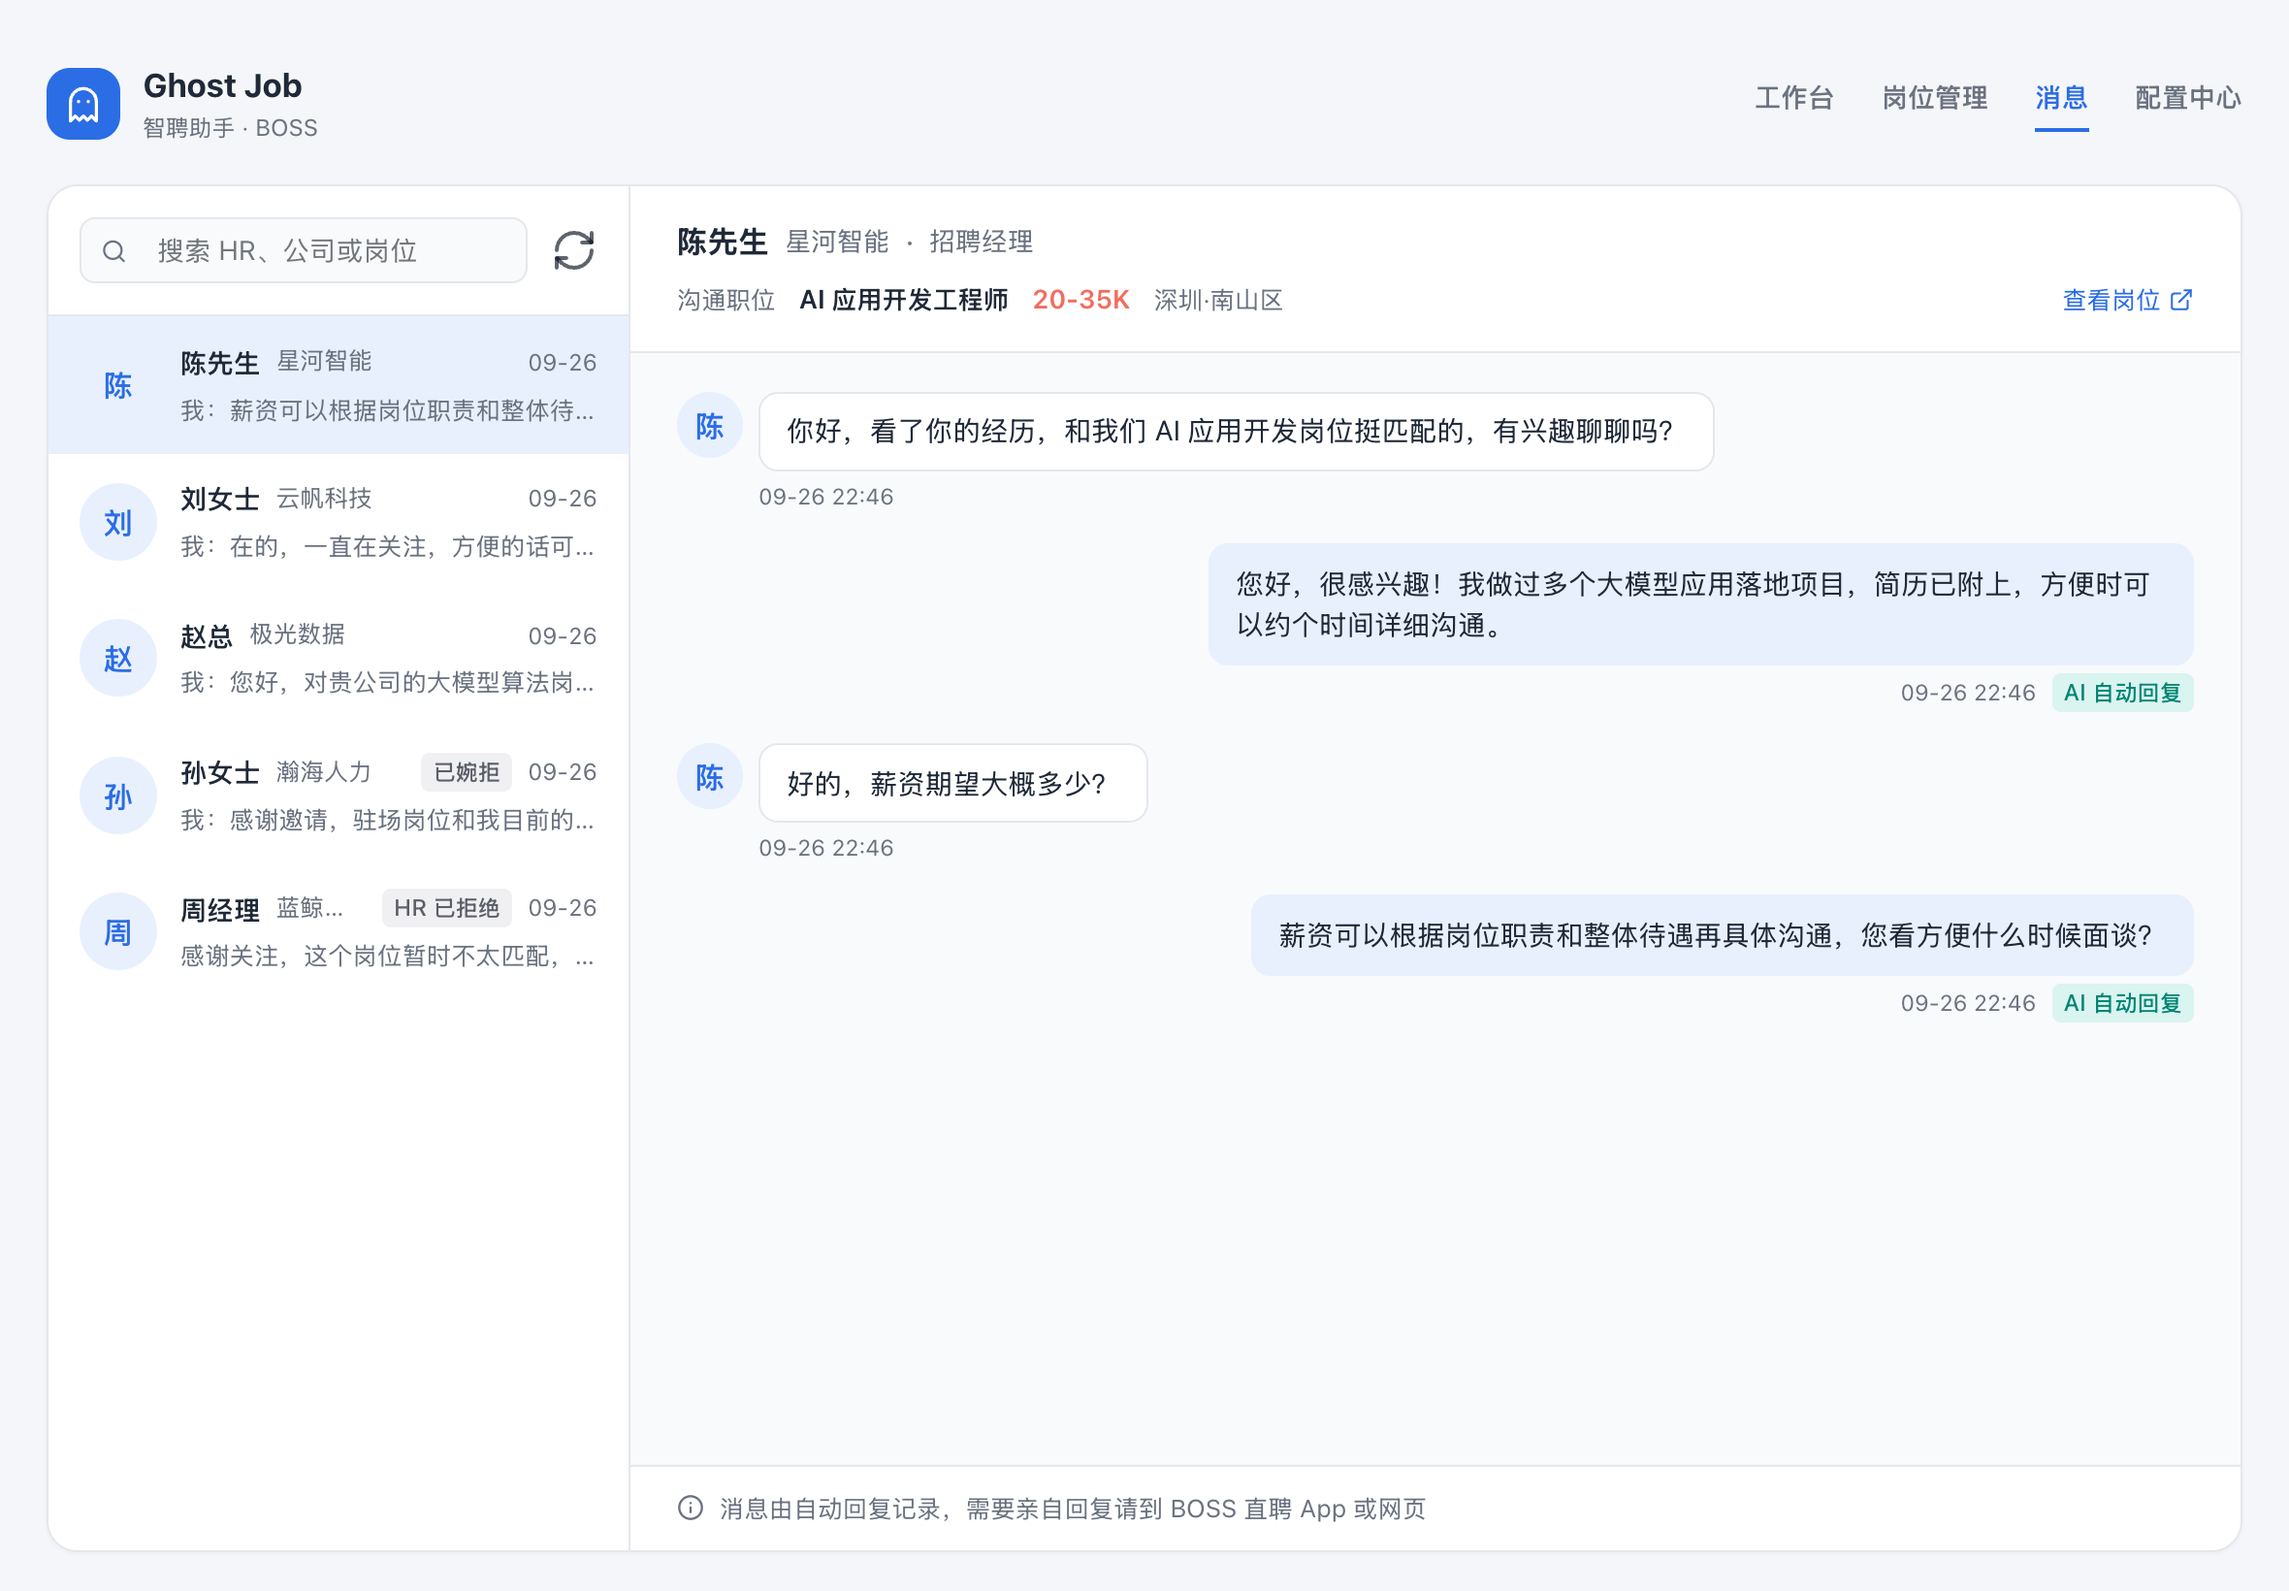
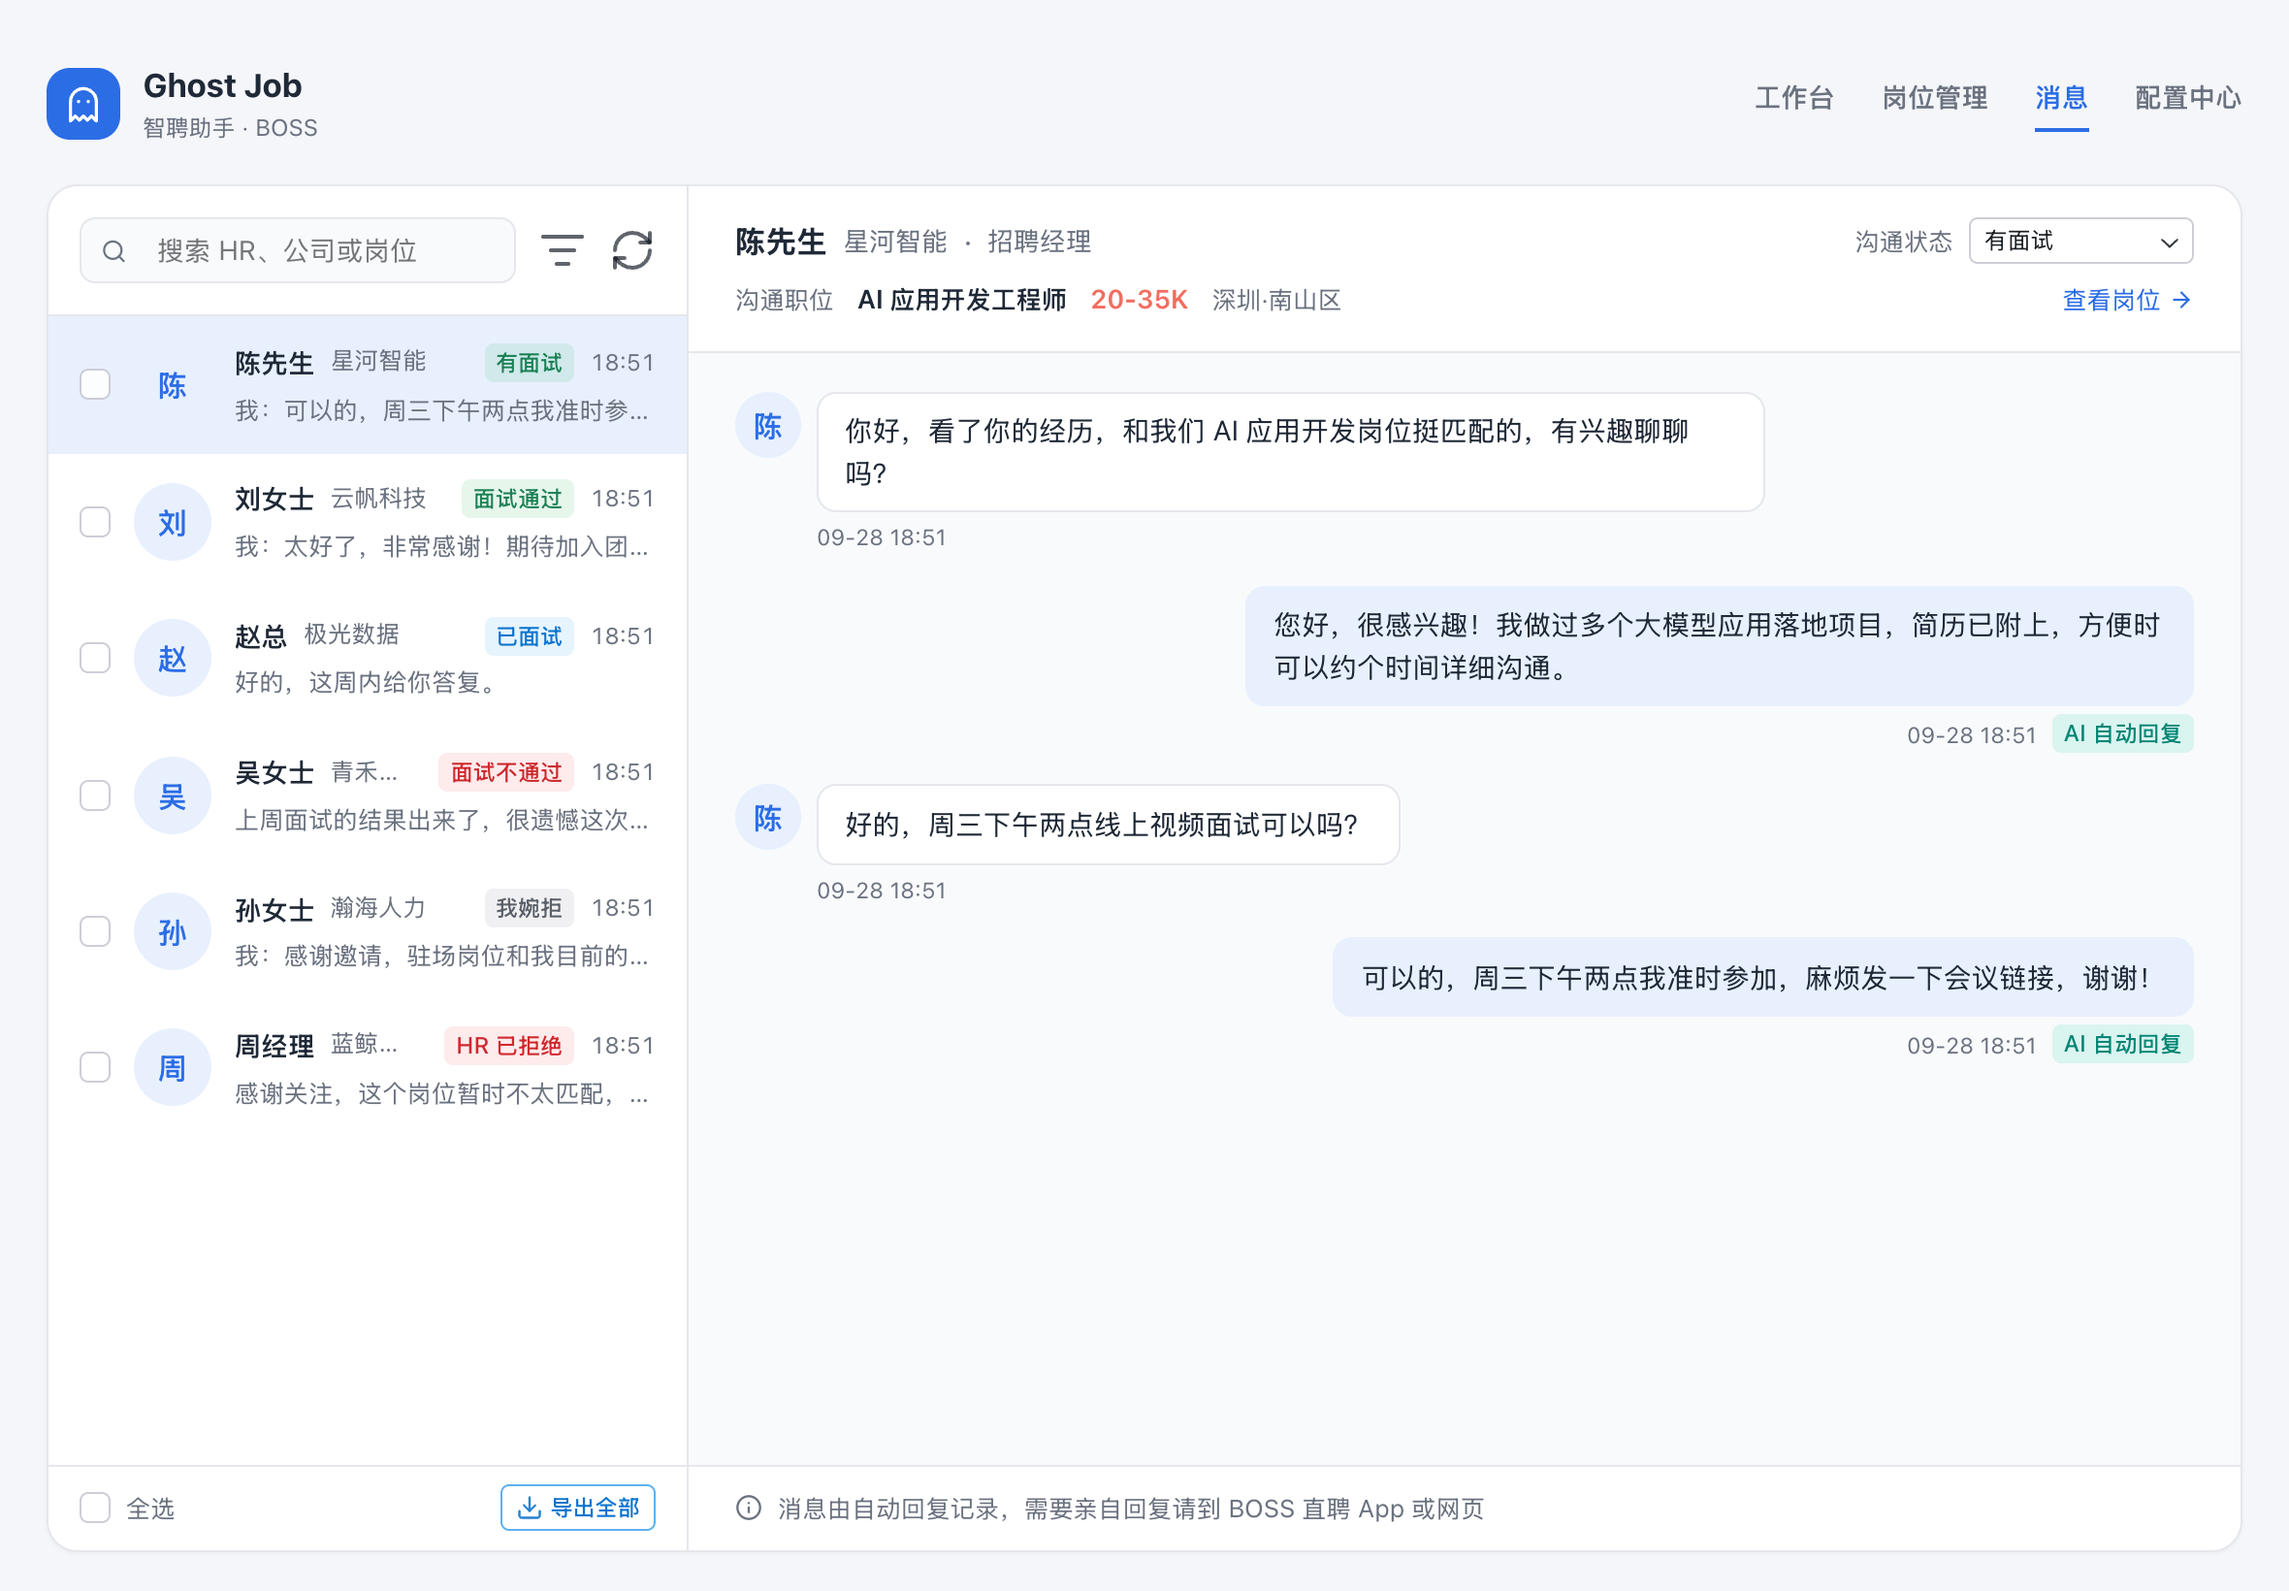
docs: README 补充沟通状态、面试识别与 JSON 导出，更新消息页截图

diff --git a/README.md b/README.md
@@ -46,6 +46,7 @@
 - **像真人一样投递**：随机停顿、分批休息，每天节奏略有不同，降低账号风险
 - **AI 自动回复**：HR 发来消息时，AI 结合你的简历和岗位信息回复，HR 索要简历时自动发送附件简历，只在白天的回复时段工作；HR 主动找你的新岗位也会按求职条件判断并记录
 - **消息记录**：和 HR 的聊天按会话集中查看，哪些是 AI 自动回复的一目了然
+- **沟通状态**：AI 识别到面试邀请会自动标记「有面试」，HR 拒绝、AI 婉拒也会自动标记；面试后可以手动标记「已面试」「面试通过」「面试不通过」，并按状态筛选会话
 - **多种大模型可选**：默认使用 DeepSeek，也可以接入通义千问、Kimi、智谱、OpenAI 或本地 Ollama
 - **数据导出**：岗位和聊天记录都能一键导出为 JSON，方便整理、复盘或交给其他工具处理
 - **数据只在本机**：岗位记录、简历、API Key 全部保存在你自己的电脑上
@@ -205,9 +206,18 @@ HR 发来的消息和 AI 的回复都会显示在运行日志里。如果是 HR 
 
 **自动发送简历**：HR 索要简历时（如「方便发份简历吗」），AI 先回复一句，再自动点击聊天窗口里的「发简历」并确认，发送你在 BOSS 直聘上传的附件简历。聊天里出现「附件简历请求已发送」即为发出，HR 确认后简历会发到对方邮箱，运行日志会显示「已发送附件简历请求」。双方还没互动、按钮不可用，或者还没上传附件简历时，运行日志会提示你手动发送。
 
-HR 明确表示不合适（如「暂不匹配」「岗位已招满」）时不会再回复，会话标记为「HR 已拒绝」；岗位不合适、AI 已替你婉拒的会话标记为「已婉拒」。之后 HR 再发来新消息，AI 会重新判断要不要继续沟通。
+**沟通状态**：每个会话有一个沟通状态，AI 回复时会自动更新：
 
-打开 **消息** 可以查看和每位 HR 的聊天记录：左侧是会话列表，支持按 HR、公司或岗位搜索，已结束的会话会显示「HR 已拒绝」或「已婉拒」；右侧是聊天内容和沟通的职位，AI 自动回复的消息会单独标注。
+- HR 明确表示不合适（如「暂不匹配」「岗位已招满」）时不会再回复，标记为「HR 已拒绝」；岗位不合适、AI 已替你婉拒的标记为「我婉拒」。之后 HR 再发来新消息，AI 会重新判断要不要继续沟通，继续沟通时会清掉这个标记
+- HR 发出面试邀请，或者正在和你约面试时间、地点、方式时，标记为「有面试」，运行日志会显示「识别到面试邀请，已标记有面试」；只是介绍面试流程（如「我们是线下面试」）不算
+- 面试之后可以手动标记「已面试」「面试通过」或「面试不通过」，这三种状态 AI 不会改动；「面试不通过」和「HR 已拒绝」「我婉拒」一样，HR 没有新消息时不再回复
+
+打开 **消息** 可以查看和每位 HR 的聊天记录：
+
+- 左侧是会话列表，支持按 HR、公司或岗位搜索；每个会话显示沟通状态标签，有面试、面试通过为绿色，面试不通过、HR 已拒绝为红色，已面试为蓝色，我婉拒为灰色
+- 点击搜索框旁的筛选按钮，可以只看某一种沟通状态，或者选「所有面试」查看有面试、已面试、面试通过、面试不通过的会话
+- 右侧是聊天内容和沟通的职位，AI 自动回复的消息会单独标注；右上角的「沟通状态」下拉可以手动修改当前会话的状态，选「无」即清除
+- 列表底部点击「导出全部」，把所有会话导出为 JSON，每个会话包含 HR、公司、岗位、沟通状态和完整的聊天记录；勾选会话后点击「导出」，只导出勾选的会话
 
 ![消息](assets/screenshots/messages.png)
 
